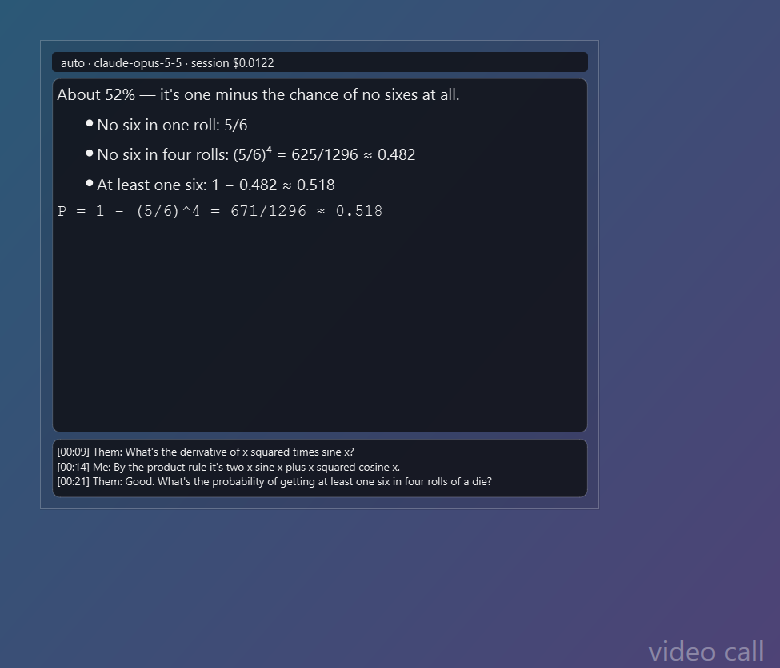
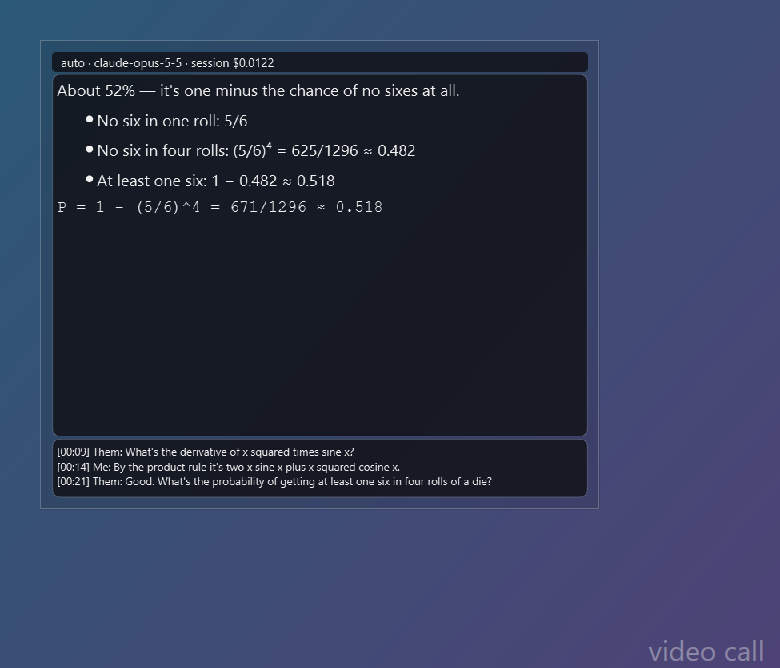
Overlay: 2 px between blocks

diff --git a/tests/test_overlay.py b/tests/test_overlay.py
@@ -61,3 +61,15 @@ def test_frame_is_never_fully_transparent(qtbot):
     from PySide6.QtGui import QColor
     for x, y in ((0, 0), (img.width() - 1, img.height() - 1), (img.width() - 1, 0)):
         assert QColor.fromRgba(img.pixel(x, y)).alpha() > 0
+
+
+def test_overlay_blocks_are_2px_apart(qtbot):
+    o = Overlay()
+    qtbot.addWidget(o)
+    o.view._error.show()  # status, error, hint and transcript all present
+    o.show()
+    qtbot.waitExposed(o)
+    widgets = [o.view._status, o.view._error, o.view._current, o.view._transcript]
+    for upper, lower in zip(widgets, widgets[1:]):
+        gap = lower.geometry().top() - upper.geometry().bottom() - 1
+        assert gap == 2, (upper, lower, gap)

diff --git a/src/shade/ui/hint_view.py b/src/shade/ui/hint_view.py
@@ -78,6 +78,7 @@ class HintView(QWidget):
 
         self.tabs: QTabWidget | None = None
         if compact:
+            layout.setSpacing(2)  # overlay: blocks close together
             # Overlay: the hint takes all the space; a fixed strip of the last
             # few transcript lines below it; no history.
             self._transcript.setVerticalScrollBarPolicy(Qt.ScrollBarPolicy.ScrollBarAlwaysOff)
